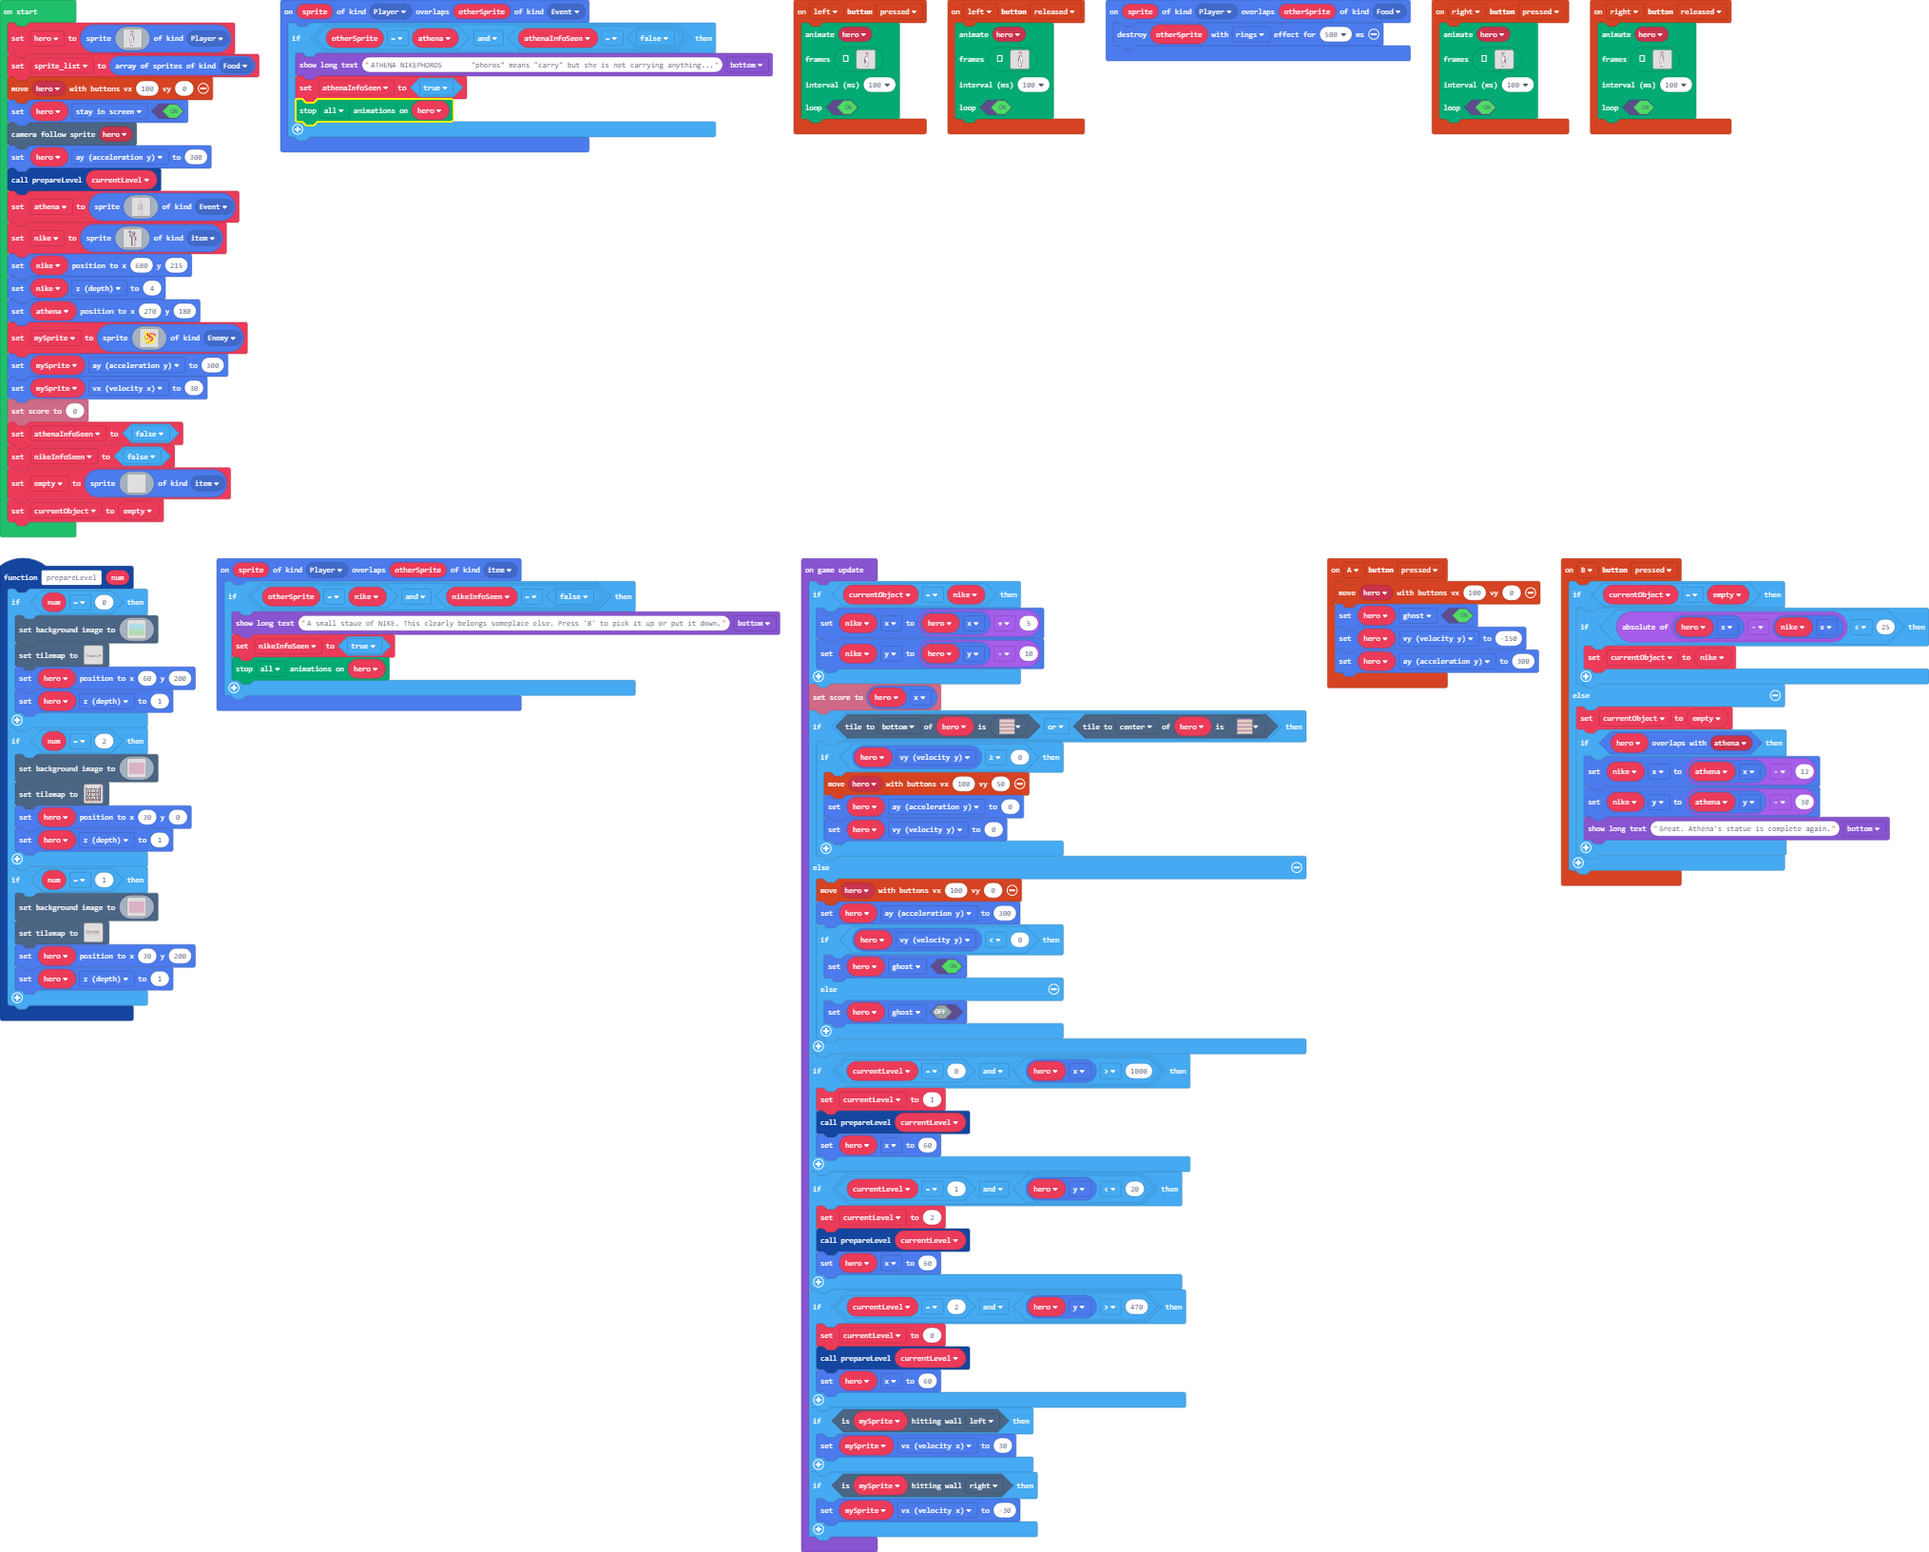
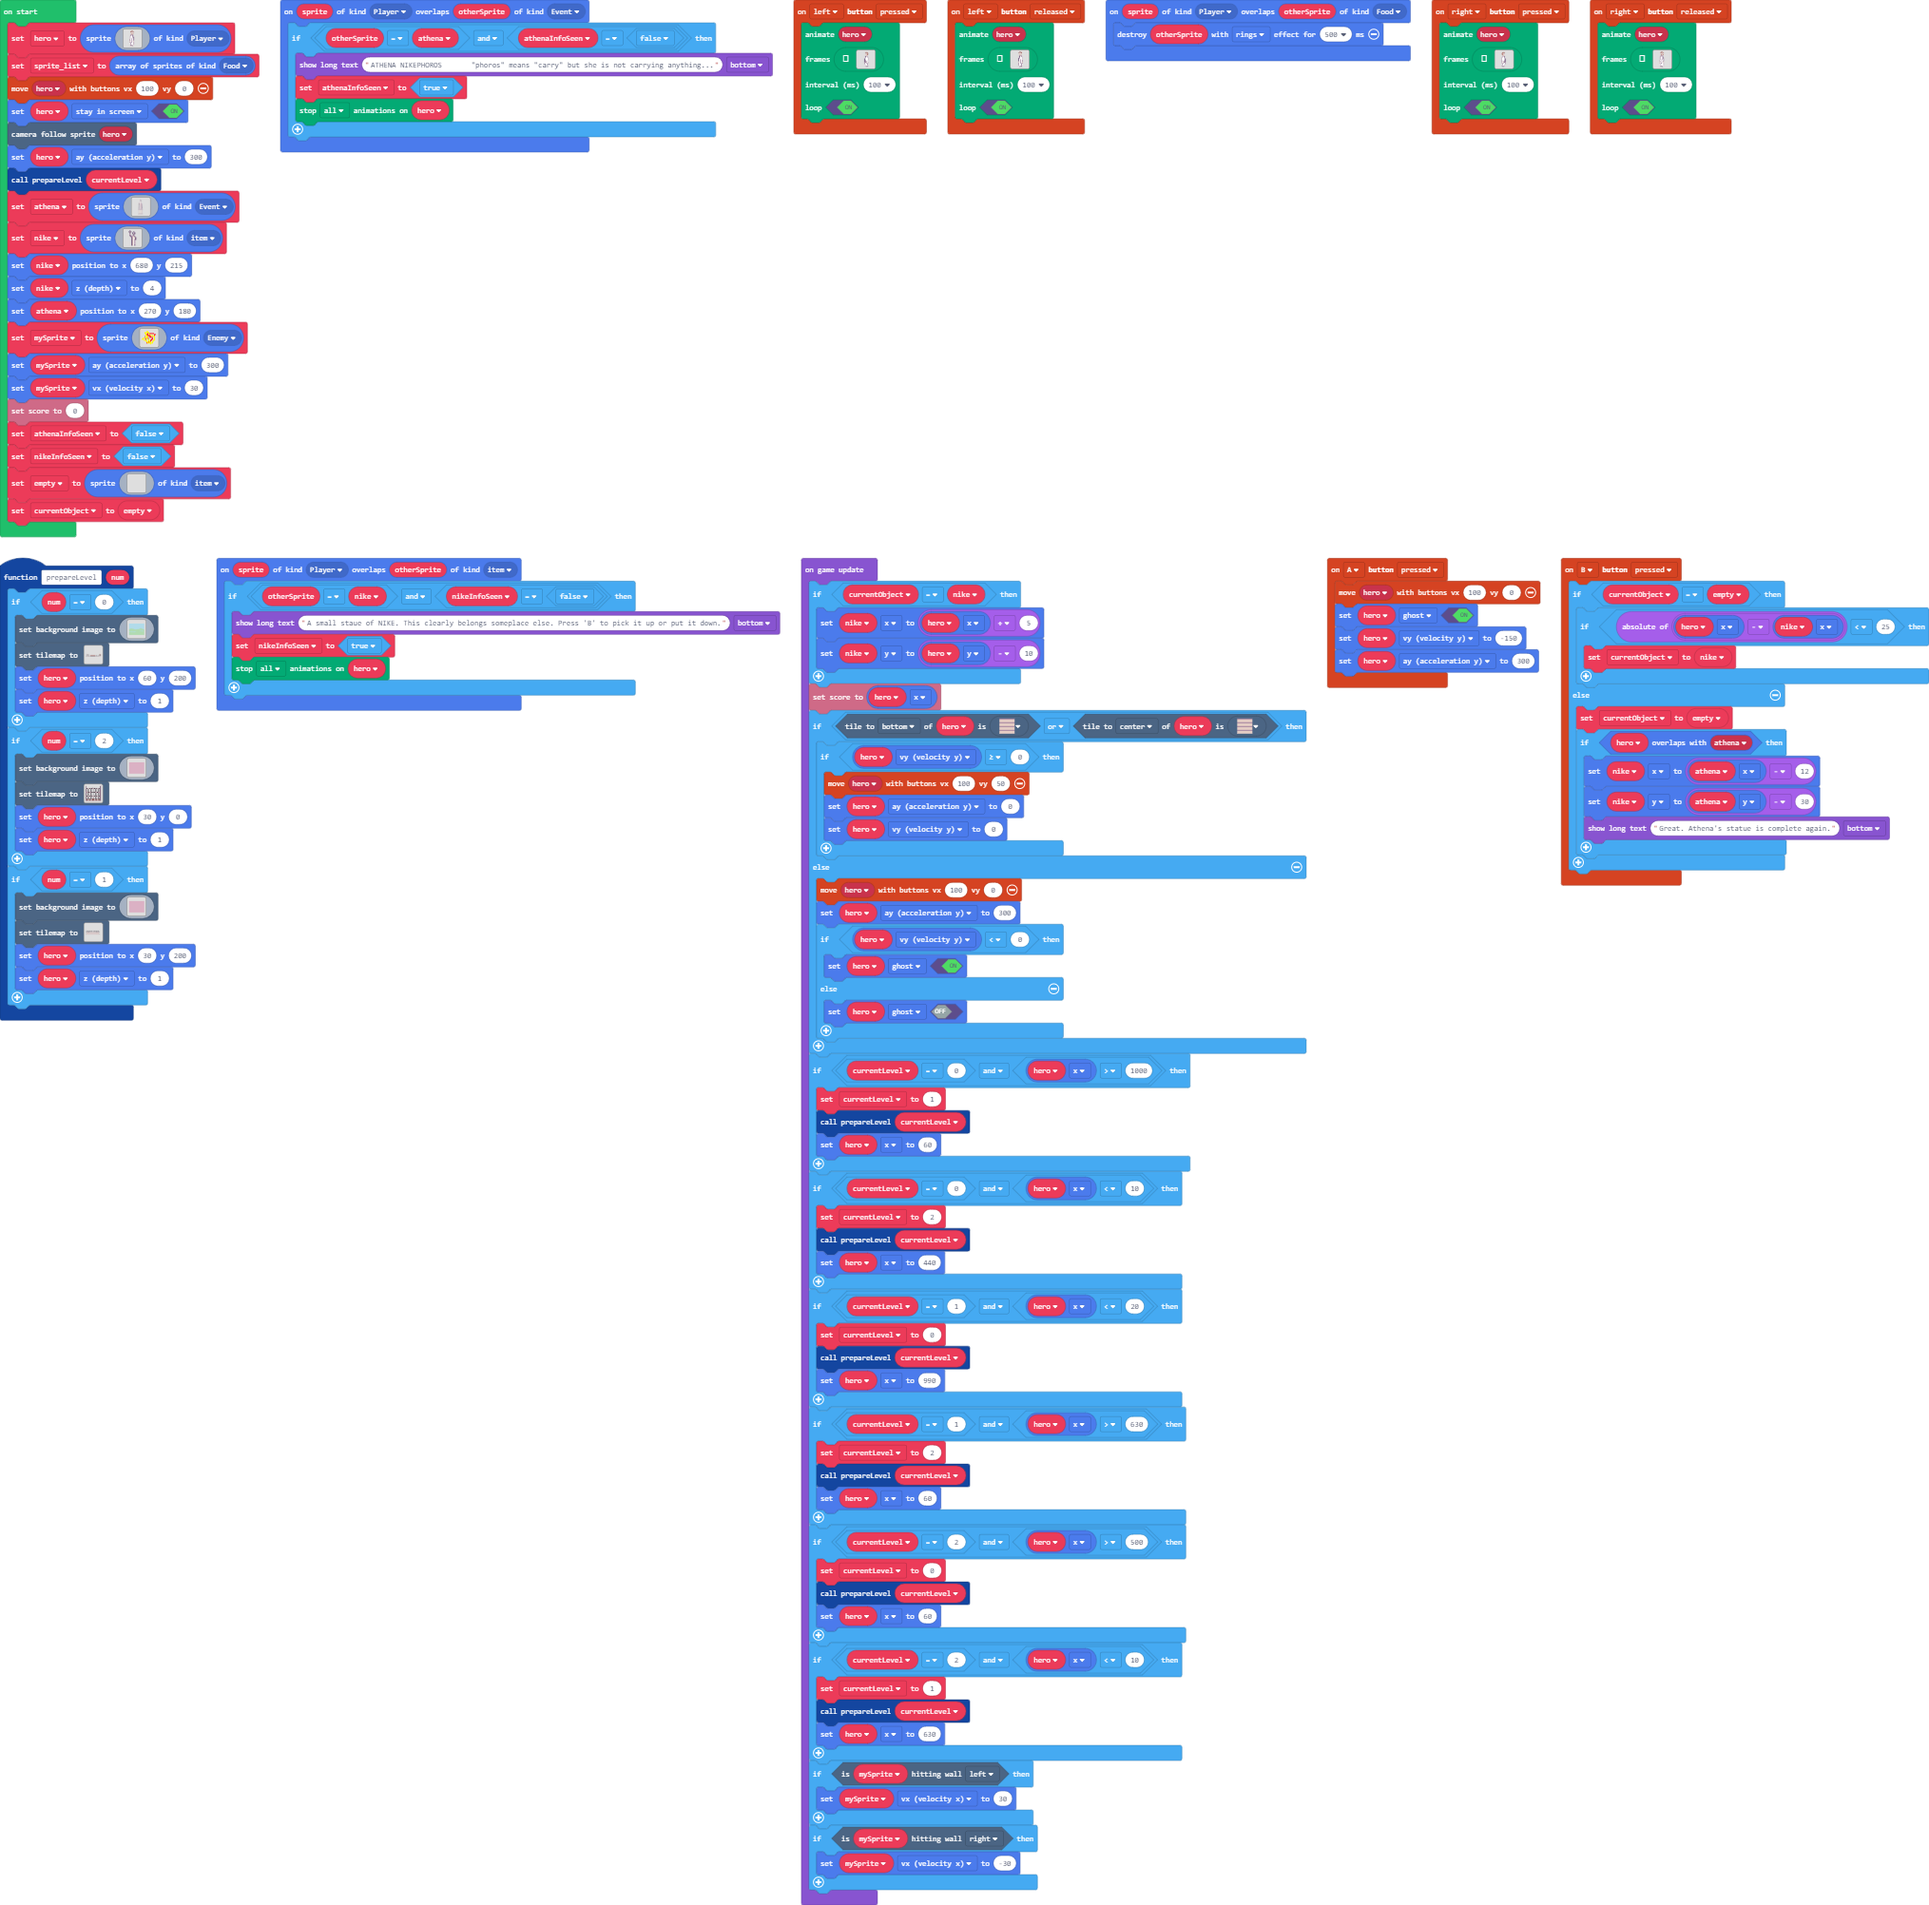
level exits

Changed region(s): [[0.0, 0.0, 1.0, 1.0]]

diff --git a/main.ts b/main.ts
@@ -1915,37 +1915,37 @@ function prepareLevel (num: number) {
         tiles.setTilemap(tiles.createTilemap(
[1 lines of base64/hex data omitted]
             img`
-2 . . . . . . . . . . . . . . . . . . . . . . . . . . . . . 2 2 
-2 . . . . . . . . . . . . . . . . . . . . . . . . . . . . . 2 2 
-2 . . . . . . . . . . . . . . . . . . . . . . . . . . . . . 2 2 
-2 . . . . . . . . . . . . . . . . . . . . . . . . . . . . . 2 2 
-2 . . . . . . . . . . . . . . . . . . . . . . . . . . . . . 2 2 
-2 2 . . 2 2 2 2 . . 2 . . 2 2 2 2 2 . . 2 . . 2 2 2 2 . . 2 2 2 
-2 . . . . . . . . . . . . . . . . . . . . . . . . . . . . . 2 2 
-2 . . . . . . . . . . . . . . . . . . . . . . . . . . . . . 2 2 
-2 . . . . . . . . . . . . . . . . . . . . . . . . . . . . . 2 2 
-2 . . . . . . . . . . . . . . . . . . . . . . . . . . . . . 2 2 
-2 . . . . . . . . . . . . . . . . . . . . . . . . . . . . . 2 2 
-2 . . . . . . . . . . . . . . . . . . . . . . . . . . . . . 2 2 
-2 . . . . . . . . . . . . . . . . . . . . . . . . . . . . . 2 2 
-2 2 2 2 2 . . 2 2 2 2 . . 2 . . . 2 . . 2 2 2 2 . . 2 2 2 2 2 2 
-2 . . . . . . . . . . . . . . . . . . . . . . . . . . . . . 2 2 
-2 . . . . . . . . . . . . . . . . . . . . . . . . . . . . . 2 2 
-2 . . . . . . . . . . . . . . . . . . . . . . . . . . . . . 2 2 
-2 . . . . . . . . . . . . . . . . . . . . . . . . . . . . . 2 2 
-2 . . . . . . . . . . . . . . . . . . . . . . . . . . . . . 2 2 
-2 . . . . . . . . . . . . . . . . . . . . . . . . . . . . . 2 2 
-2 . . . . . . . . . . . . . . . . . . . . . . . . . . . . . 2 2 
-2 2 . . 2 2 2 2 . . 2 . . 2 2 2 2 2 . . 2 . . 2 2 2 2 . . 2 2 2 
-2 . . . . . . . . . . . . . . . . . . . . . . . . . . . . . 2 2 
-2 . . . . . . . . . . . . . . . . . . . . . . . . . . . . . 2 2 
-2 . . . . . . . . . . . . . . . . . . . . . . . . . . . . . 2 2 
-2 . . . . . . . . . . . . . . . . . . . . . . . . . . . . . 2 2 
-2 . . . . . . . . . . . . . 2 2 2 . . . . . . . . . . . . . 2 2 
-2 . 2 2 . . . . 2 2 . . . . . . . . . . . 2 2 . . . . 2 2 . 2 2 
-2 . . . . . . . . . . . . . . . . . . . . . . . . . . . . . 2 2 
-2 2 . . 2 2 2 2 . . 2 2 2 2 . . . 2 2 2 2 . . 2 2 2 2 . . 2 2 2 
-2 . . . . . . . . . . . . . . . . . . . . . . . . . . . . . 2 2 
+. . . . . . . . . . . . . . . . . . . . . . . . . . . . . . . . 
+. . . . . . . . . . . . . . . . . . . . . . . . . . . . . . . . 
+. . . . . . . . . . . . . . . . . . . . . . . . . . . . . . . . 
+. . . . . . . . . . . . . . . . . . . . . . . . . . . . . . . . 
+. . . . . . . . . . . . . . . . . . . . . . . . . . . . . . . . 
+. 2 . . 2 2 2 2 . . 2 . . 2 2 2 2 2 . . 2 . . 2 2 2 2 . . 2 . . 
+. . . . . . . . . . . . . . . . . . . . . . . . . . . . . . . . 
+. . . . . . . . . . . . . . . . . . . . . . . . . . . . . . . . 
+. . . . . . . . . . . . . . . . . . . . . . . . . . . . . . . . 
+. . . . . . . . . . . . . . . . . . . . . . . . . . . . . . . . 
+. . . . . . . . . . . . . . . . . . . . . . . . . . . . . . . . 
+. . . . . . . . . . . . . . . . . . . . . . . . . . . . . . . . 
+. . . . . . . . . . . . . . . . . . . . . . . . . . . . . . . . 
+. 2 2 2 2 . . 2 2 2 2 . . 2 . . . 2 . . 2 2 2 2 . . 2 2 2 2 . . 
+. . . . . . . . . . . . . . . . . . . . . . . . . . . . . . . . 
+. . . . . . . . . . . . . . . . . . . . . . . . . . . . . . . . 
+. . . . . . . . . . . . . . . . . . . . . . . . . . . . . . . . 
+. . . . . . . . . . . . . . . . . . . . . . . . . . . . . . . . 
+. . . . . . . . . . . . . . . . . . . . . . . . . . . . . . . . 
+. . . . . . . . . . . . . . . . . . . . . . . . . . . . . . . . 
+. . . . . . . . . . . . . . . . . . . . . . . . . . . . . . . . 
+. 2 . . 2 2 2 2 . . 2 . . 2 2 2 2 2 . . 2 . . 2 2 2 2 . . 2 . . 
+. . . . . . . . . . . . . . . . . . . . . . . . . . . . . . . . 
+. . . . . . . . . . . . . . . . . . . . . . . . . . . . . . . . 
+. . . . . . . . . . . . . . . . . . . . . . . . . . . . . . . . 
+. . . . . . . . . . . . . . . . . . . . . . . . . . . . . . . . 
+. . . . . . . . . . . . . . . . . . . . . . . . . . . . . . . . 
+. . . . . . . . . . . . . . . . . . . . . . . . . . . . . . . . 
+. . . . . . . . . . . . . . . . . . . . . . . . . . . . . . . . 
+. 2 . . 2 2 2 2 . . 2 2 2 2 . . . 2 2 2 2 . . 2 2 2 2 . . 2 . . 
+. . . . . . . . . . . . . . . . . . . . . . . . . . . . . . . . 
 2 2 2 2 2 2 2 2 2 2 2 2 2 2 2 2 2 2 2 2 2 2 2 2 2 2 2 2 2 2 2 2 
 `,
             [myTiles.tile0,sprites.castle.tileGrass2,sprites.castle.tileDarkGrass2,sprites.castle.tilePath5,myTiles.tile1,myTiles.tile2,myTiles.tile3,myTiles.tile4,myTiles.tile5,myTiles.tile6,myTiles.tile7,myTiles.tile9,myTiles.tile10,myTiles.tile11,myTiles.tile12,myTiles.tile13,myTiles.tile14,myTiles.tile15,myTiles.tile16,myTiles.tile17,myTiles.tile19,myTiles.tile20,myTiles.tile21,myTiles.tile22,myTiles.tile23,myTiles.tile24,myTiles.tile25,myTiles.tile26,myTiles.tile27,myTiles.tile28,myTiles.tile29,myTiles.tile30,myTiles.tile31,myTiles.tile32,myTiles.tile33,myTiles.tile34,myTiles.tile35,myTiles.tile36,myTiles.tile37,myTiles.tile38,myTiles.tile39,myTiles.tile40,myTiles.tile41,sprites.castle.tileGrass1,myTiles.tile42,myTiles.tile43,myTiles.tile44,myTiles.tile45,myTiles.tile46,myTiles.tile47,myTiles.tile48,myTiles.tile49,myTiles.tile50,myTiles.tile51,myTiles.tile52,myTiles.tile53,myTiles.tile54,myTiles.tile55,myTiles.tile56,myTiles.tile57,myTiles.tile58,myTiles.tile59,myTiles.tile60,myTiles.tile61,myTiles.tile62,myTiles.tile63,myTiles.tile64,myTiles.tile65,myTiles.tile66,myTiles.tile67,myTiles.tile68,myTiles.tile69,myTiles.tile70,myTiles.tile71,myTiles.tile72,myTiles.tile73],
@@ -2339,15 +2339,30 @@ game.onUpdate(function () {
         prepareLevel(currentLevel)
         hero.x = 60
     }
-    if (currentLevel == 1 && hero.y < 20) {
+    if (currentLevel == 0 && hero.x < 10) {
+        currentLevel = 2
+        prepareLevel(currentLevel)
+        hero.x = 440
+    }
+    if (currentLevel == 1 && hero.x < 20) {
+        currentLevel = 0
+        prepareLevel(currentLevel)
+        hero.x = 990
+    }
+    if (currentLevel == 1 && hero.x > 630) {
         currentLevel = 2
         prepareLevel(currentLevel)
         hero.x = 60
     }
-    if (currentLevel == 2 && hero.y > 470) {
+    if (currentLevel == 2 && hero.x > 500) {
         currentLevel = 0
         prepareLevel(currentLevel)
         hero.x = 60
+    }
+    if (currentLevel == 2 && hero.x < 10) {
+        currentLevel = 1
+        prepareLevel(currentLevel)
+        hero.x = 630
     }
     if (mySprite.isHittingTile(CollisionDirection.Left)) {
         mySprite.vx = 30
